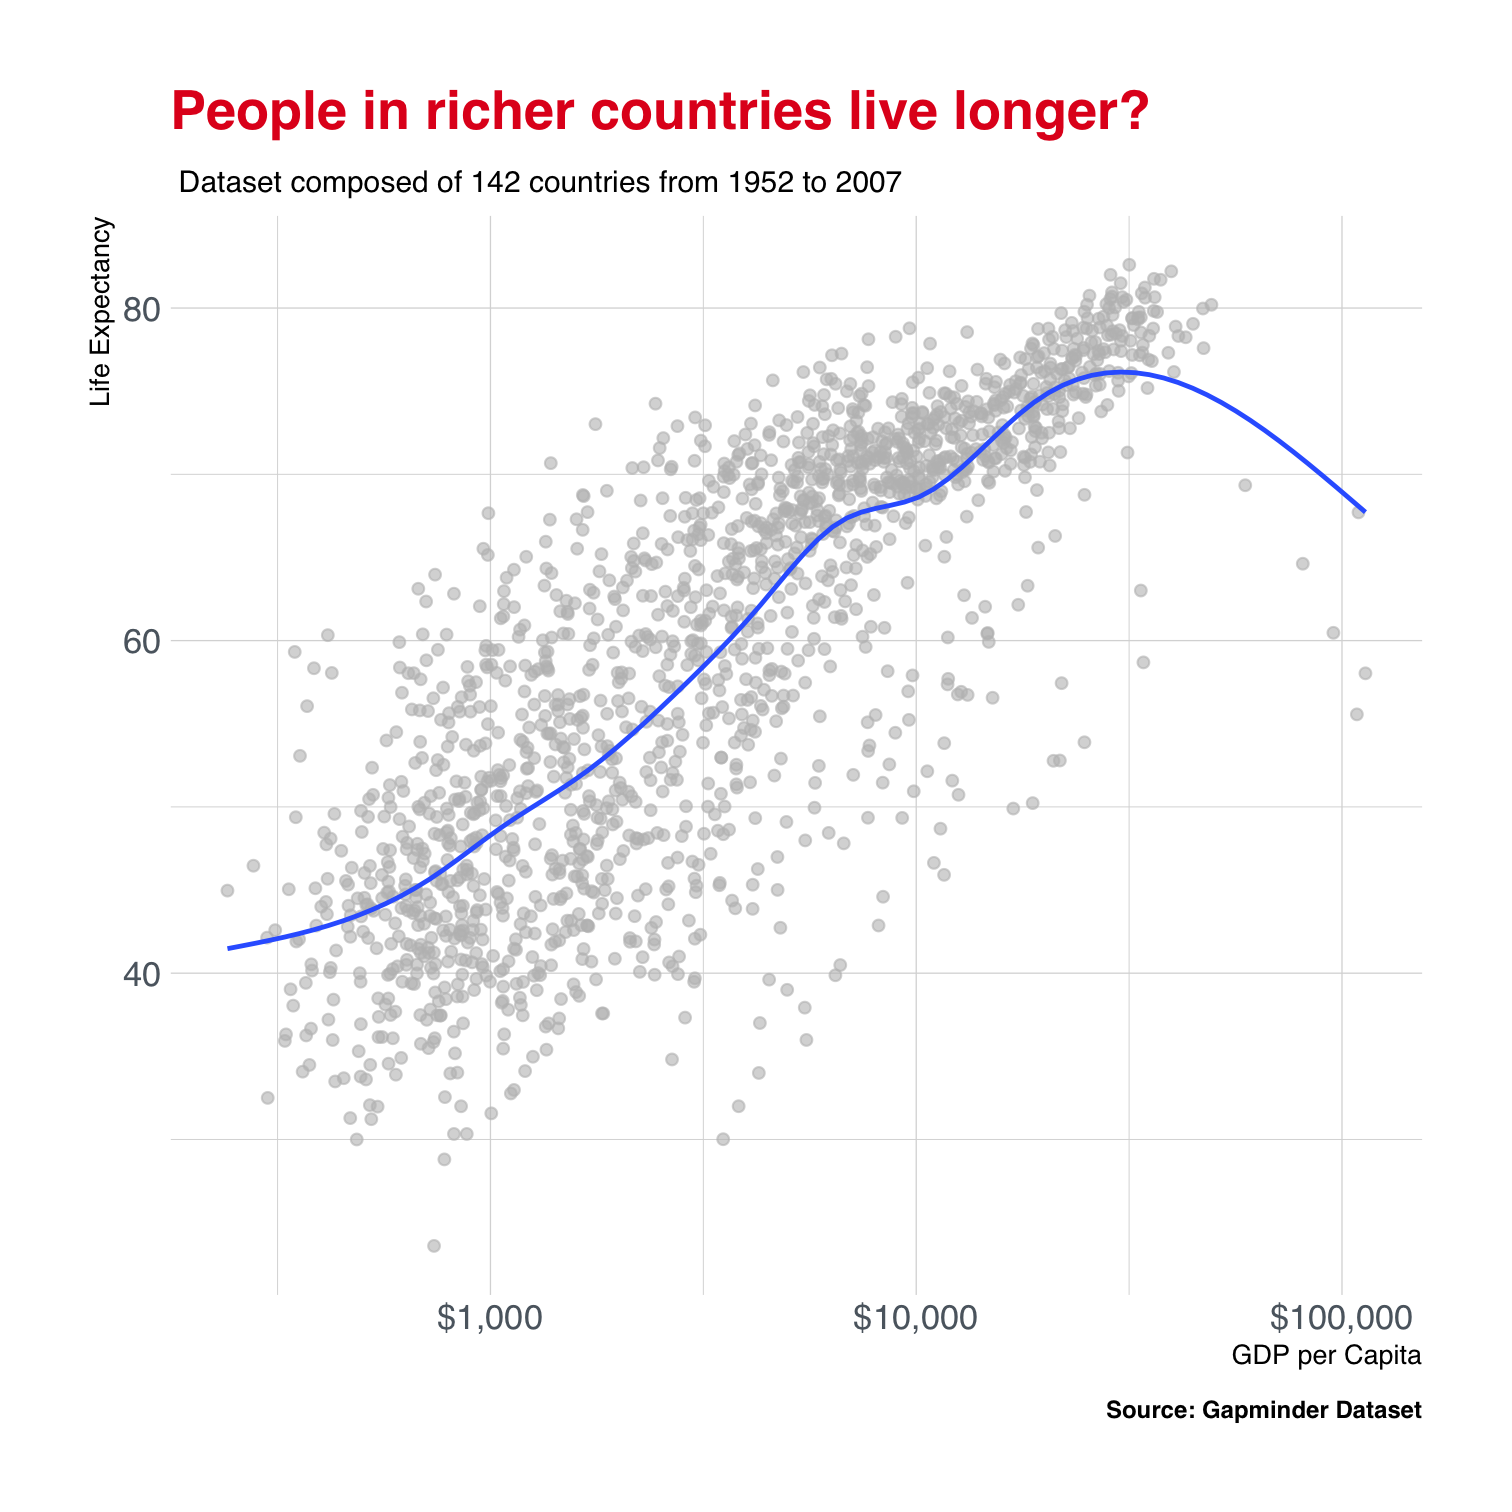
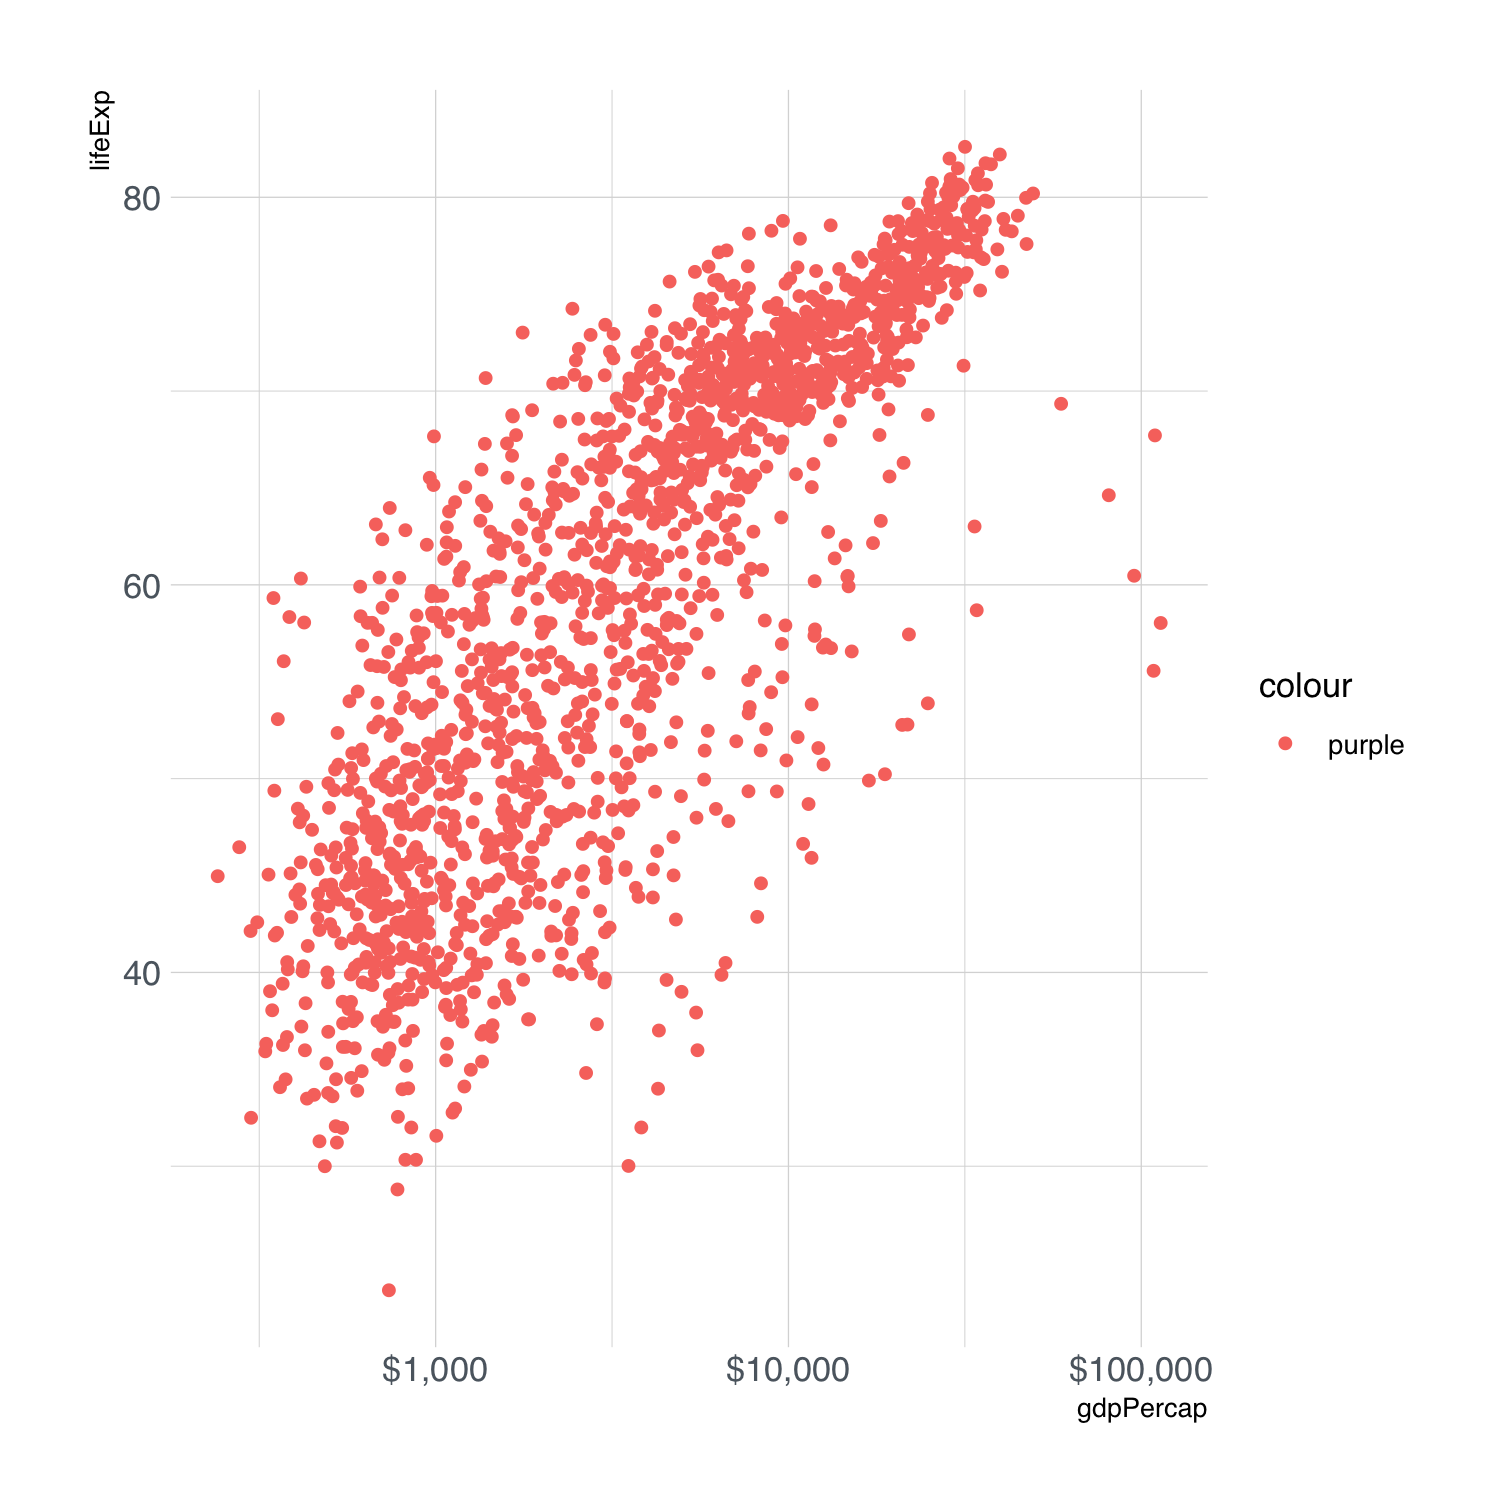
#slides

diff --git a/Lecture 4/Lecture_4_presentation/Lecture_4.html b/Lecture 4/Lecture_4_presentation/Lecture_4.html
@@ -501,32 +501,28 @@ p&lt;- p+
 ---
 ## Mapping aesthetics vs setting aesthetics (1/3)
 
-  -Color is a possible aesthetic in ggplot2; it expects a variable.
-
---
-
-  -The code below is creating a new variable with value "purple" for observations.
-
---
-
-  -All observation have the same value ("purple") for color, so they take the same color.
-  
---
-
 .pull-left[
 
 ```r
-purp&lt;-ggplot(data = gapminder, mapping = aes(x = gdpPercap, y = lifeExp,
+purp &lt;- ggplot(data = gapminder, mapping = aes(x = gdpPercap, y = lifeExp,
 color = "purple"))+
   geom_point()+
   scale_x_log10(labels=scales::dollar)
 ```
+
+&lt;img src="Lecture_4_files/figure-html/unnamed-chunk-18-1.png" width="75%" /&gt;
+
 ]
 
 --
 
 .pull-right[
-&lt;img src="Lecture_4_files/figure-html/unnamed-chunk-18-1.png" width="80%" /&gt;
+
+  -Color is a possible aesthetic in ggplot2; it expects a variable.
+
+  -The code below is creating a new variable with value "purple" for observations.
+
+  -All observation have the same value ("purple") for color, so they take the same color.
 
 ]
 
